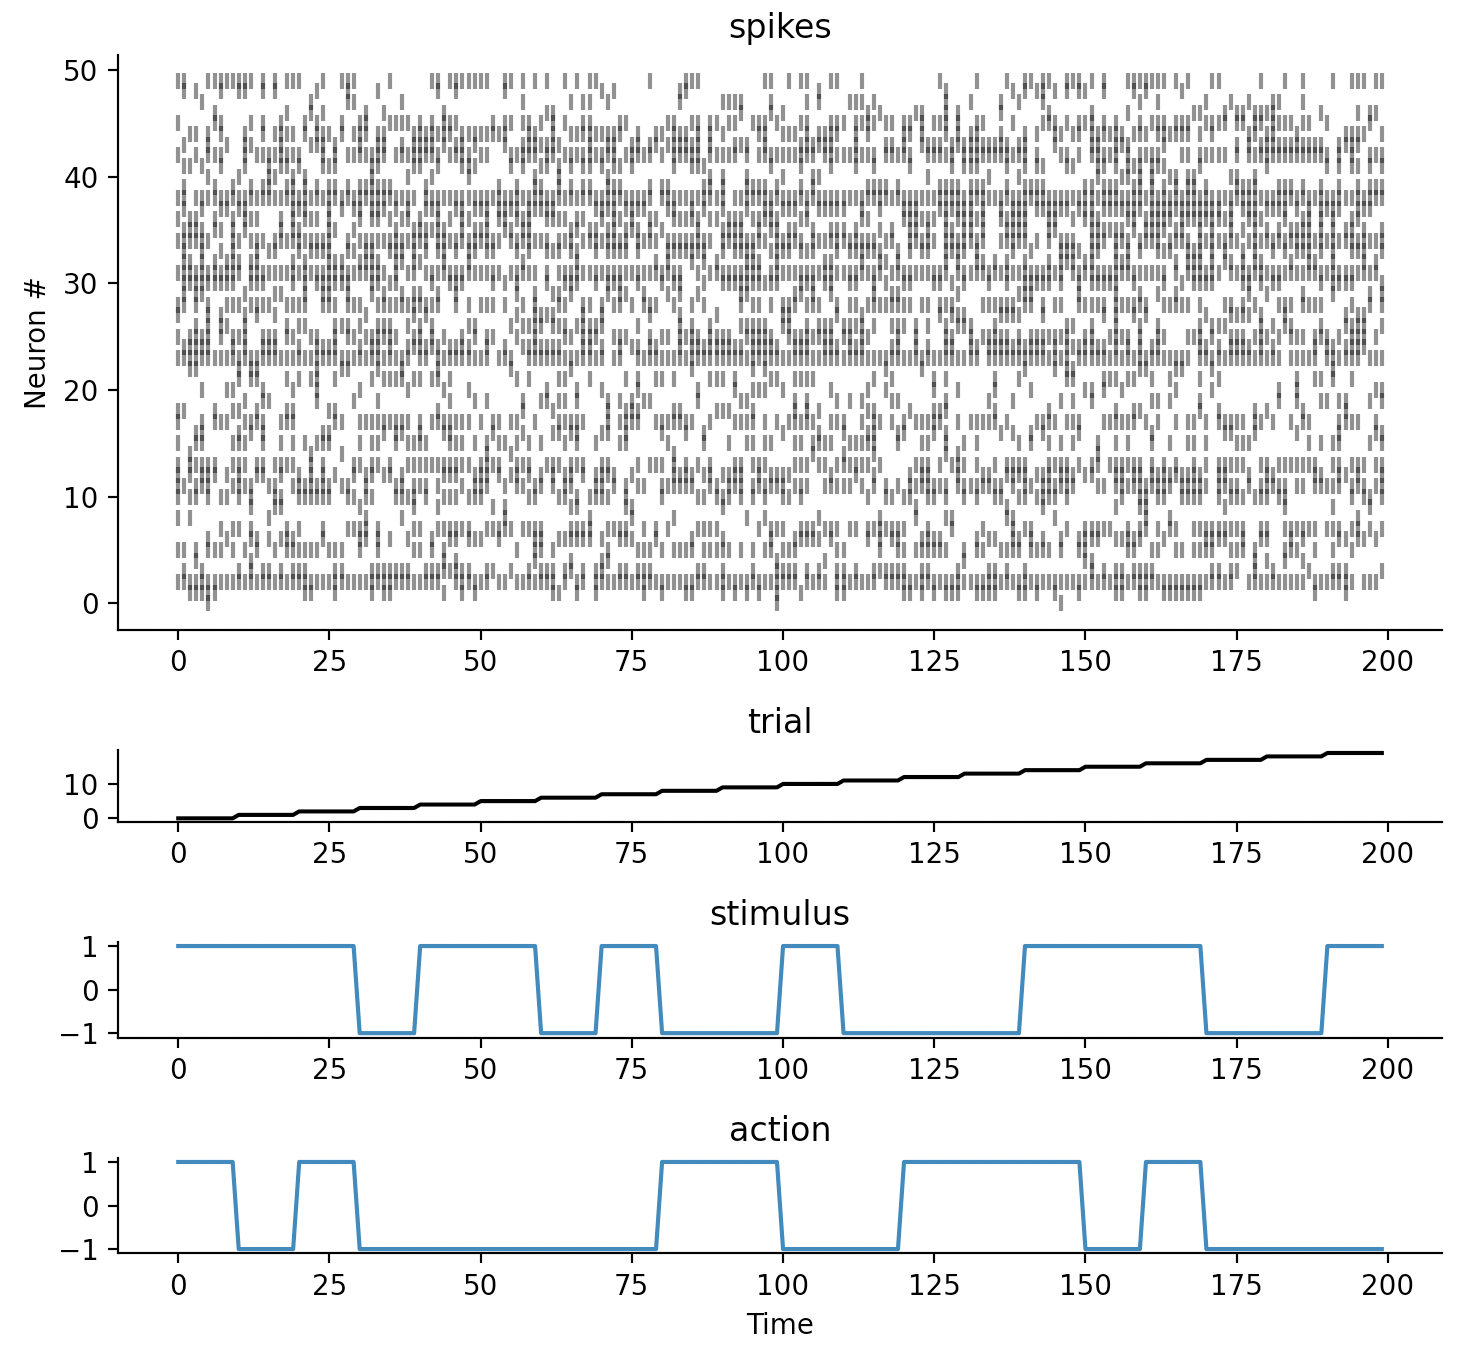
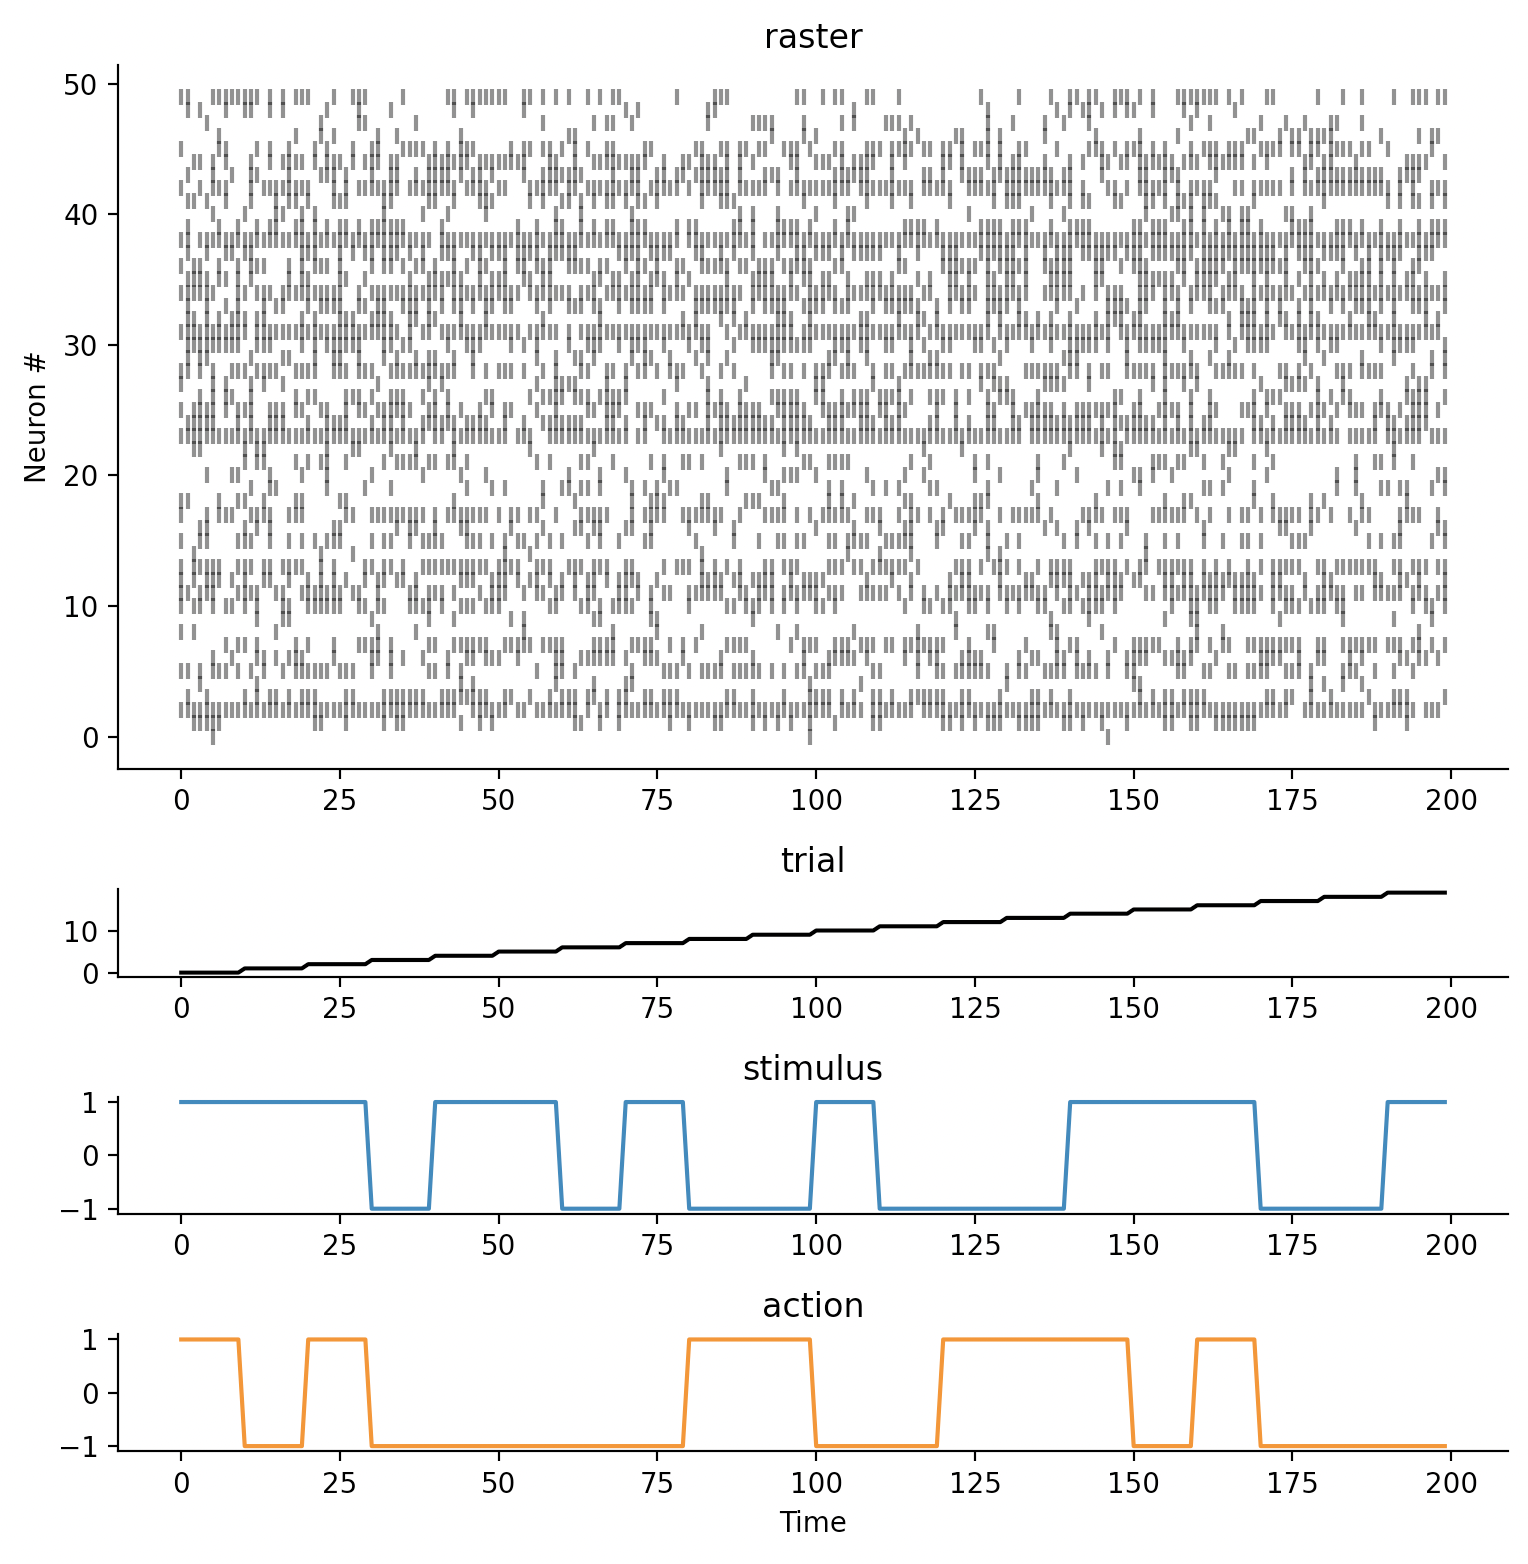
Updating readme and package structure.

diff --git a/decodanda/utilities.py b/decodanda/utilities.py
@@ -1274,9 +1274,9 @@ def visualize_synthetic_data(session):
 
     axs[1].plot(session['trial'], color='k')
     axs[2].plot(session[keys[0]])
-    axs[3].plot(session[keys[1]])
+    axs[3].plot(session[keys[1]], color=pltcolors[1])
 
-    axs[0].set_title('spikes')
+    axs[0].set_title('raster')
     axs[1].set_title('trial')
     axs[2].set_title(keys[0])
     axs[3].set_title(keys[1])

diff --git a/README.md b/README.md
@@ -63,13 +63,13 @@ synchronized with the ```raster``` array.
 
     
 
-Visually, a properly-aligned data set with two experimental variables (e.g., _stimulus_ and _action_) would look like this:
+A properly-formatted data set with two experimental variables (here, _stimulus_ and _action_) would look like this:
 ```python
 data = {
     'raster': [[0, 1, ..., 0], ..., [0, 0, ..., 1]],   # <TxN array>, neural activations 
+    'trial':  [0, 0, 0, ..., T],                       # <Tx1 array>, trial number
     'stimulus': [-1, -1, 1, ..., 1],                   # <Tx1 array>, binary labels for stimulus
     'action': [1, -1, 1, ..., -1],                     # <Tx1 array>, binary labels for action
-    'trial':  [0, 0, 0, ..., T],                       # <Tx1 array>, trial number
 }
 ```
 <img src="./images/session_example.png" width="600"/>
